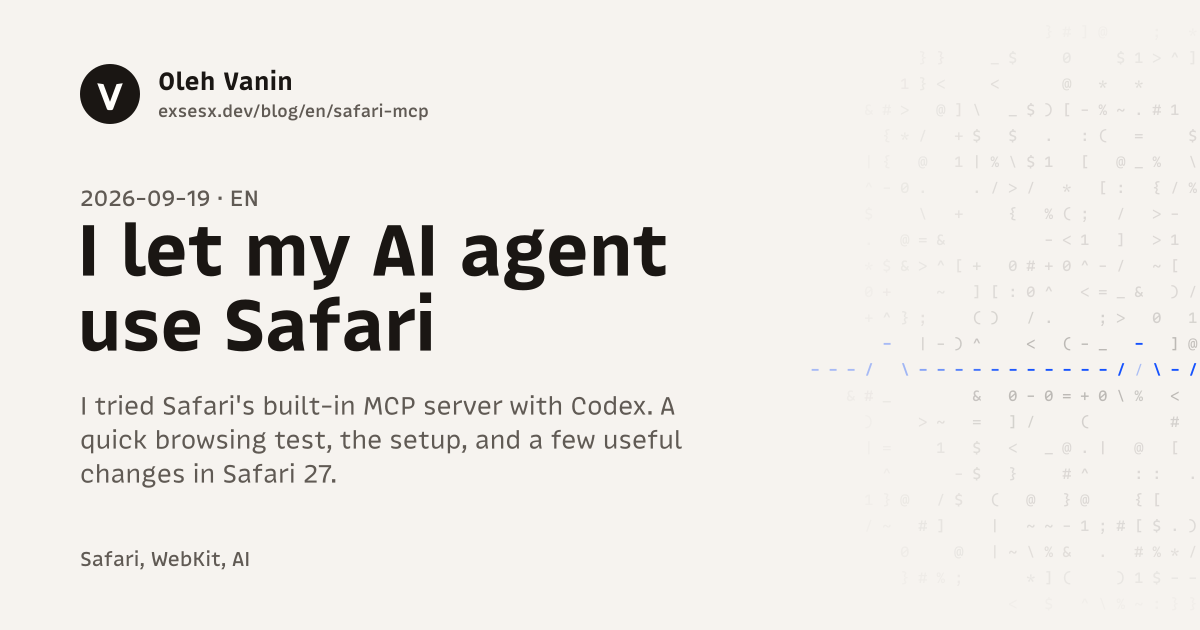
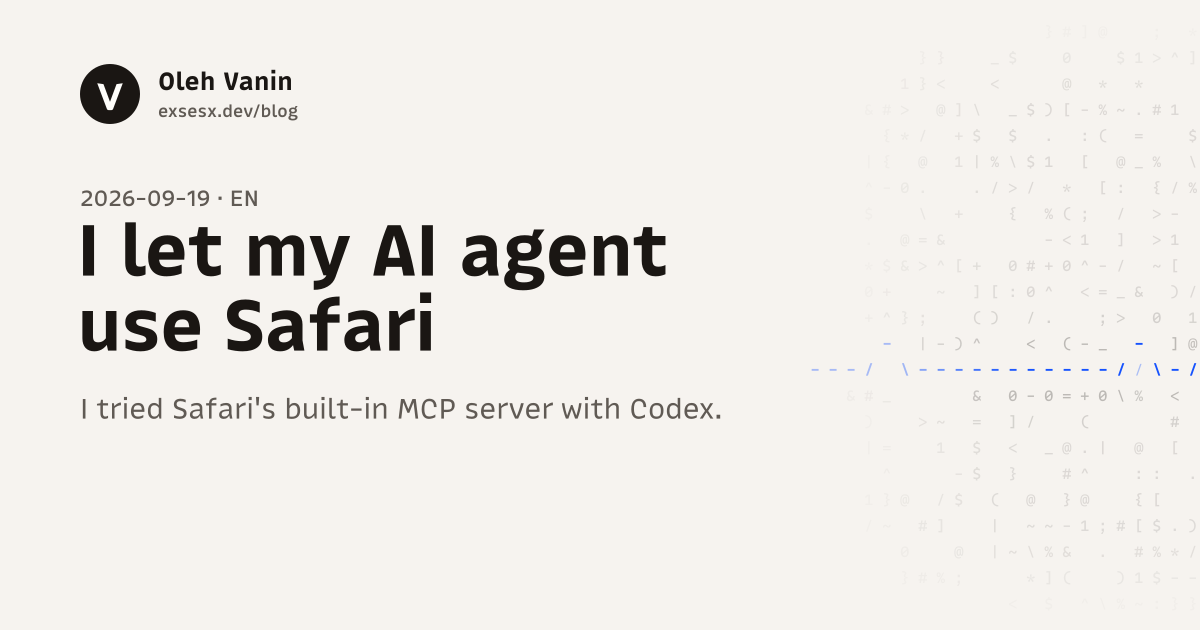
feat: give article social cards a complete one-sentence deck
- the deck is the description's first sentence, or its first clause,
  never cut mid-word; the generator fails instead of truncating
- drop tags and shorten the identity line to the domain and section
- widen the Cyrillic width estimate so Ukrainian lines stay in column
- bump socialImageVersion to 7

Changed region(s): [[0.0617, 0.6333, 0.6167, 0.7841], [0.2467, 0.1508, 0.37, 0.2111], [0.0617, 0.8746, 0.2158, 0.9048]]

diff --git a/scripts/generate-social-images.ts b/scripts/generate-social-images.ts
@@ -109,12 +109,14 @@ function fittedLines(
 // Rough advance-width estimate for MonoLisaText at a given size (no font metrics in
 // the SVG pipeline). Heavy weights render wider; callers pass a measureScale for that.
 function approxTextWidth(value: string, fontSize: number) {
-  const widths: Record<string, number> = { narrow: 0.34, normal: 0.56, wide: 0.78 };
+  const widths: Record<string, number> = { narrow: 0.34, normal: 0.56, cyrillic: 0.62, wide: 0.78 };
   let units = 0;
 
   for (const char of value) {
     if (".,:;!|'i l".includes(char)) units += widths.narrow;
-    else if ("mwMW—".includes(char)) units += widths.wide;
+    else if ("mwMWшщжмюЖШЩМЮ—".includes(char)) units += widths.wide;
+    // Cyrillic letters set wider than the Latin average.
+    else if (/[\u0400-\u04ff]/.test(char)) units += widths.cyrillic;
     else units += widths.normal;
   }
 
@@ -429,6 +431,38 @@ function blogIndexSvg() {
   `);
 }
 
+/*
+ * The card's deck: the description's first sentence, whole. A sentence that cannot
+ * fit falls back to its first clause (up to a semicolon); if that cannot fit either,
+ * the run fails so the description gets rewritten instead of cut mid-word.
+ */
+function socialDeck(
+  post: BlogPostSummary,
+  options: { maxWidth: number; maxLines: number; idealSize: number; minSize: number },
+) {
+  const firstSentence = post.description.trim().split(/(?<=[.!?])\s+/)[0];
+  const firstClause = firstSentence.includes(";") ? `${firstSentence.split(";")[0].trimEnd()}.` : null;
+
+  for (const candidate of [firstSentence, firstClause]) {
+    if (!candidate) {
+      continue;
+    }
+
+    for (let fontSize = options.idealSize; fontSize >= options.minSize; fontSize -= 1) {
+      const lines = wrapLinesByWidth(candidate, options.maxWidth, fontSize);
+
+      if (
+        lines.length <= options.maxLines &&
+        lines.every(line => approxTextWidth(line, fontSize) <= options.maxWidth)
+      ) {
+        return { lines, fontSize };
+      }
+    }
+  }
+
+  throw new Error(`No complete social deck fits for ${post.locale}/${post.slug}: shorten its first sentence.`);
+}
+
 function blogArticleSvg(post: BlogPostSummary) {
   const title = fittedLines(post.title, {
     maxWidth: 680,
@@ -437,20 +471,21 @@ function blogArticleSvg(post: BlogPostSummary) {
     minSize: 46,
     measureScale: 1.04,
   });
-  const description = fittedLines(post.description, {
-    maxWidth: 680,
-    maxLines: title.lines.length >= 3 ? 2 : 3,
-    idealSize: 25,
-    minSize: 20,
-  });
   const titleLineHeight = Math.round(title.fontSize * 1.04);
   const titleY = 236 + title.fontSize * 0.55;
-  const descriptionY = titleY + titleLineHeight * (title.lines.length - 1) + 64;
-  const tagsY = Math.min(590, Math.max(566, descriptionY + 34 * (description.lines.length - 1) + 52));
+  const deckY = titleY + titleLineHeight * (title.lines.length - 1) + 68;
+  const deckLineHeight = 38;
+  // As many deck lines as fit above a 58px bottom margin, never more than three.
+  const deck = socialDeck(post, {
+    maxWidth: 680,
+    maxLines: Math.min(3, Math.floor((height - 58 - deckY) / deckLineHeight) + 1),
+    idealSize: 28,
+    minSize: 24,
+  });
 
   return baseSvg(`
     ${asciiField({ seed: seedFrom(`${post.locale}/${post.slug}`), startX: 800, baselineY: 370, accent: colors.accent, beatOffset: seedFrom(post.slug) % 20 })}
-    ${brand(`${SITE_PROFILE.domain}/blog/${post.locale}/${post.slug}`)}
+    ${brand(`${SITE_PROFILE.domain}/blog`)}
     ${textBlock([`${post.publishedAt.slice(0, 10)} · ${BLOG_LOCALE_LABELS[post.locale]}`], {
       x: marginX,
       y: 206,
@@ -459,8 +494,7 @@ function blogArticleSvg(post: BlogPostSummary) {
       className: "eyebrow",
     })}
     ${textBlock(title.lines, { x: marginX - 3, y: titleY, fontSize: title.fontSize, lineHeight: titleLineHeight, className: "display" })}
-    ${textBlock(description.lines, { x: marginX, y: descriptionY, fontSize: description.fontSize, lineHeight: 34, className: "lede" })}
-    ${textBlock([post.tags.slice(0, 3).join(", ")], { x: marginX, y: tagsY, fontSize: 20, lineHeight: 0, className: "tags" })}
+    ${textBlock(deck.lines, { x: marginX, y: deckY, fontSize: deck.fontSize, lineHeight: deckLineHeight, className: "lede" })}
   `);
 }
 

diff --git a/src/lib/metadata.ts b/src/lib/metadata.ts
@@ -9,7 +9,7 @@ export const siteName = SITE_PROFILE.domain;
 const socialPreviewPath = "/images/social-preview.png";
 // Bump to force social platforms (Telegram, X, LinkedIn, Slack) to re-scrape
 // cached previews — they cache og:image by URL.
-const socialImageVersion = "6";
+const socialImageVersion = "7";
 const previewDeploymentUrl = process.env.VERCEL_BRANCH_URL ?? process.env.VERCEL_URL;
 const socialImageOrigin =
   process.env.VERCEL_ENV === "preview" && previewDeploymentUrl ? `https://${previewDeploymentUrl}` : siteUrl;
